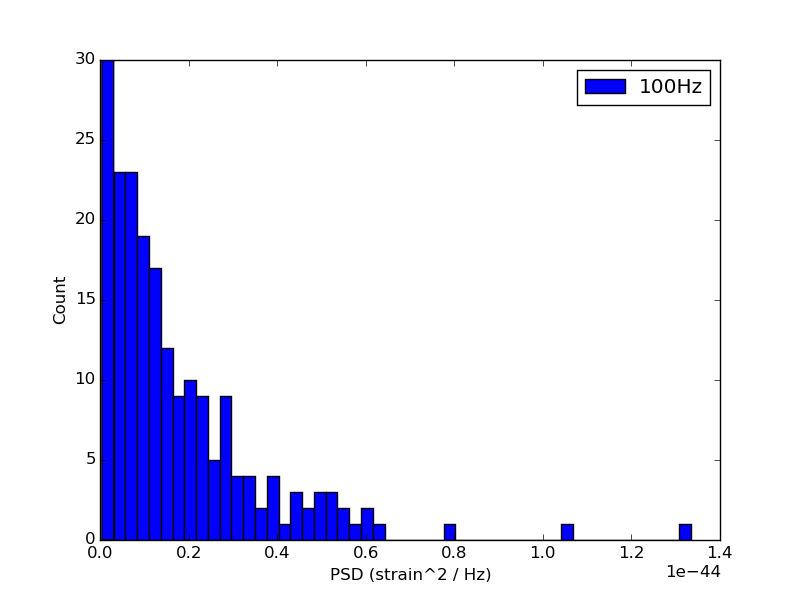
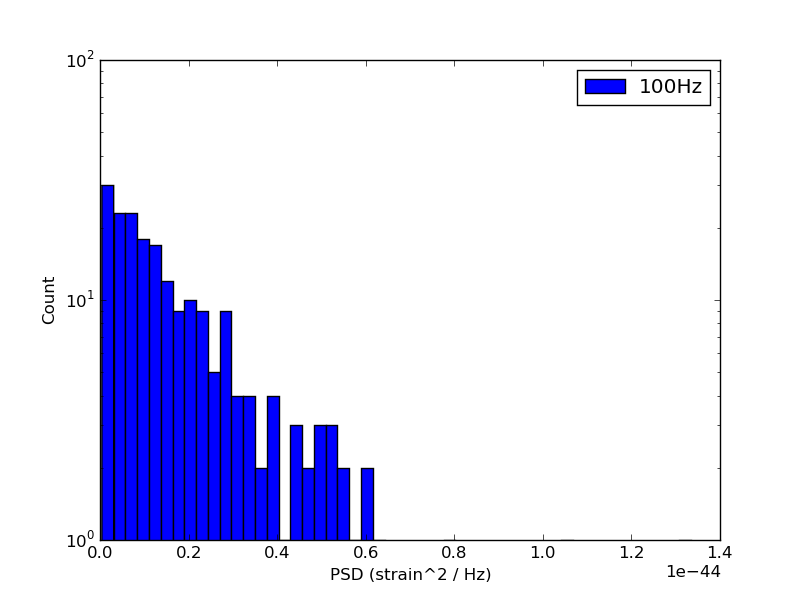
Created histograms for interesting frequencies -EC

diff --git a/2015/150621_PSD/makepsd.py b/2015/150621_PSD/makepsd.py
@@ -24,12 +24,11 @@ def plot_histogram(freq_selected, psds):
 	
 	# Plot histogram
 	#plt.figure(5)
-	#bins = np.arange(min(psd_h), max(psd_h) + binwidth, binwidth)
-	plt.hist(psd_h, 50, label=str(freq_selected) + 'Hz')
+	plt.hist(psd_h, 50, label=str(freq_selected) + 'Hz', log=True)
 	plt.xlabel('PSD (strain^2 / Hz)')
 	plt.ylabel('Count')
 	plt.legend()
-	#plt.savefig('histogram' + str(freq_selected) + '.png')
+	plt.savefig('histogram' + str(freq_selected) + '.png')
 	
 
 def plot_timeseries(time_seg, strain_seg):
@@ -131,16 +130,15 @@ def plot_many_psds(
 
 
 	psds_dict = {}
-	for psd in psds:
+	# Add frequencies to keys for the first PSD
+	for index, freq in enumerate(psds[0][0]):
+		psds_dict[freq] = [psds[0][1][index]]
+	
+	for psd in psds[1:]:
 		# Loop over all frequencies for a given PSD array
 		for index, freq in enumerate(psd[0]):
-			# If the frequency is not in dictionary, add to keys
-			if freq not in psds_dict.keys():
-				psds_dict[freq] = [psd[1][index]]
-				
 			# Append new PSD value if frequency already in dict
-			else:
-				psds_dict[freq].append(psd[1][index])
+			psds_dict[freq].append(psd[1][index])
 
 
 	if plotting:
@@ -285,7 +283,7 @@ for chunk_index in range(10):
 psds = plot_many_psds(seglist, 0, time, strain, fs, 200)
 
 # Calculate PSD for maximum number of chunks
-psds_max = plot_many_psds(seglist, 0, time, strain, fs, 5)
+psds_max = plot_many_psds(seglist, 0, time, strain, fs, 600)
 
 
 # Calculate histograms for PSD distribution for many PSDs at different freqs
@@ -305,6 +303,7 @@ print '=== Calculating P0, P1, and P2 ==='
 freqs = []
 c1_values = []
 c2_values = []
+pxx_avg = []
 for freq in psds_max.keys():
 	# Convert PSD lists to numpy arrays
 	psds_max[freq] = np.asarray(psds_max[freq])
@@ -314,30 +313,75 @@ for freq in psds_max.keys():
 	P0 = np.mean(psds_max[freq])
 	P1 = np.mean(psds[freq])
 	P2 = np.mean((psds[freq])**2)	
+	pxx_avg.append(np.sqrt(P1))
 	
 	# Calculate c1 and c2
 	c1_values.append(P1/P0 - 1)
 	c2_values.append(0.5 * (P2 / (P1**2) - 2))
 	freqs.append(freq)
-psd_statistics = np.array(zip(freqs, c1_values, c2_values), dtype=[
-	('freq', float),('c1', float),('c2', float)])
+psd_statistics = np.array(zip(freqs, c1_values, c2_values, pxx_avg), dtype=[
+	('freq', float),('c1', float),('c2', float), ('pxx_avg', float)])
 print '* Finished calculating PSD statistics'
 
-# Plot c1 and c2 for various frequencies
+# Plot Pxx, c1, and c2 for various frequencies
 plt.figure(8)
-c1_plot = plt.subplot(211)
+P_plot = plt.subplot(311)
+plt.loglog(psd_statistics['freq'], psd_statistics['pxx_avg'])
+plt.title(r'PSD, $c_{1}$, and $c_{2}$ values for L1 data starting at GPS ' + str(time_seg[0]))
+plt.ylabel(r'<PSD> (strain / $\sqrt{Hz}$)')
+P_plot.set_xscale('log')
+
+
+c1_plot = plt.subplot(312, sharex=P_plot)
 plt.plot(psd_statistics['freq'], psd_statistics['c1'], label='c1')
-plt.title(r'$c_{1}$ and $c_{2}$ values for L1 data starting at GPS ' + str(time_seg[0]))
+#plt.title(r'$c_{1}$ and $c_{2}$ values for L1 data starting at GPS ' + str(time_seg[0]))
 plt.legend()
 plt.ylabel(r'$c_{1}$')
-c1_plot.set_xscale('log')
 
-c2_plot = plt.subplot(212, sharex=c1_plot)
+c2_plot = plt.subplot(313, sharex=P_plot)
 plt.plot(psd_statistics['freq'], psd_statistics['c2'], label='c2')
 plt.legend()
 plt.ylabel(r'$c_{2}$')
 plt.xlabel('Frequency (Hz)')
 plt.savefig('Gaussianity.pdf')
+
+# Plot Pxx and c2 for various frequencies
+plt.figure(9)
+P_plot = plt.subplot(211)
+plt.loglog(psd_statistics['freq'], psd_statistics['pxx_avg'])
+plt.title(r'PSD and $c_{2}$ values for L1 data starting at GPS ' + str(time_seg[0]))
+plt.ylabel(r'<PSD> (strain / $\sqrt{Hz}$)')
+P_plot.set_xscale('log')
+
+c2_plot = plt.subplot(212, sharex=P_plot)
+plt.plot(psd_statistics['freq'], psd_statistics['c2'], label='c2')
+plt.legend()
+plt.ylabel(r'$c_{2}$')
+plt.xlabel('Frequency (Hz)')
+plt.savefig('Gaussianity_noc1.pdf')
+
+# Plot histograms for interesting frequencies
+''' 
+# THIS CRASHED MY COMPUTER
+fig_number = 10
+for index, freq in enumerate(psd_statistics['freq']):
+	if np.fabs(psd_statistics['c2'][index]) >= 0.2:
+		plt.figure(fig_number)
+		fig_number += 1
+		plot_histogram(freq, psds)
+'''
+plt.figure(10)
+plot_histogram(20, psds_max)
+plt.figure(11)
+plot_histogram(22, psds_max)
+plt.figure(12)
+plot_histogram(31, psds_max)
+plt.figure(13)
+plot_histogram(60, psds_max)
+plt.figure(14)
+plot_histogram(23, psds_max)
+
+
 
 plt.show()
 
